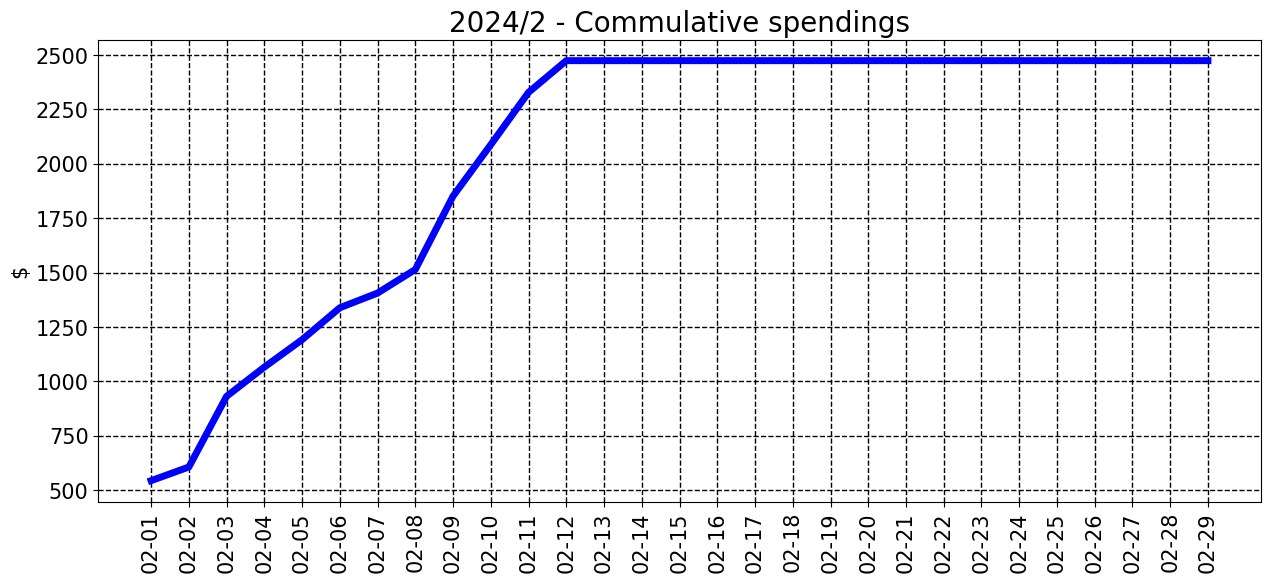
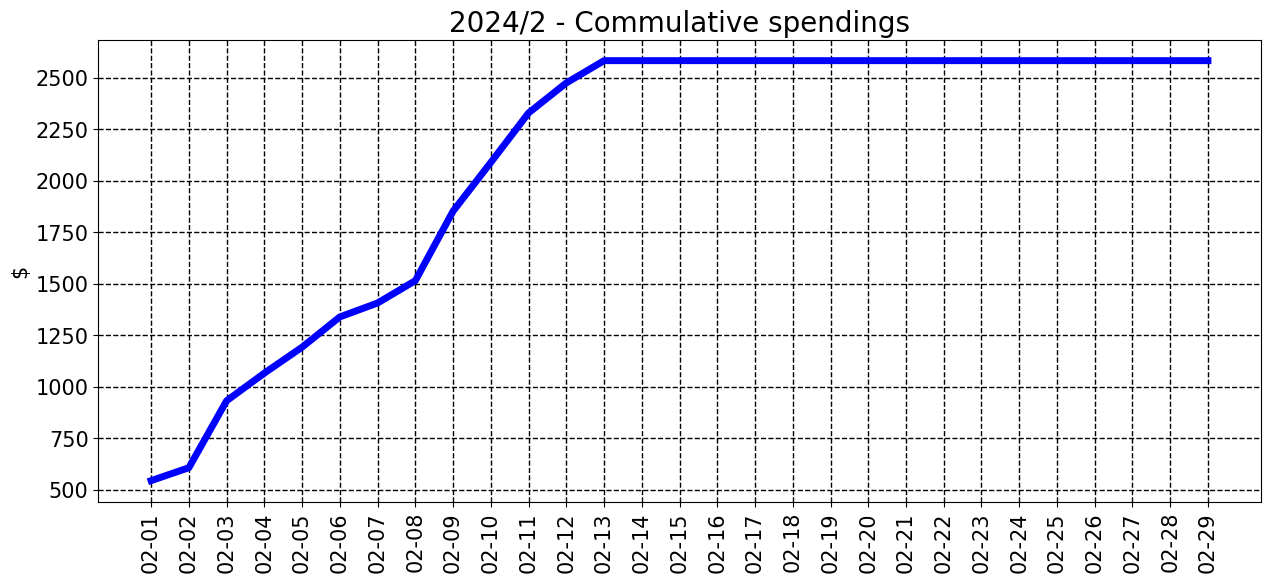
commit from python

Changed region(s): [[0.0307, 0.0619, 1.0, 0.7732], [0.0307, 0.8351, 0.0614, 0.866]]

diff --git a/README.md b/README.md
@@ -7,7 +7,7 @@ __________________________________
 <sub><sup>
 | Spent | Avg daily | End of month projection | Spent since 2024/1 |
 |---|---|---|---|
-| $0.0  |  $0.0  | $0.0  |  $10882.0  |
+| $0.0  |  $0.0  | $0.0  |  $10990.0  |
 </sub></sup>
 __________________________________
 ![graph_12_sum](graph_12_sum.png)
@@ -21,7 +21,7 @@ __________________________________
 <sub><sup>
 | Spent | Avg daily | End of month projection | Spent since 2024/1 |
 |---|---|---|---|
-| $0.0  |  $0.0  | $0.0  |  $10882.0  |
+| $0.0  |  $0.0  | $0.0  |  $10990.0  |
 </sub></sup>
 __________________________________
 ![graph_11_sum](graph_11_sum.png)
@@ -35,7 +35,7 @@ __________________________________
 <sub><sup>
 | Spent | Avg daily | End of month projection | Spent since 2024/1 |
 |---|---|---|---|
-| $0.0  |  $0.0  | $0.0  |  $10882.0  |
+| $0.0  |  $0.0  | $0.0  |  $10990.0  |
 </sub></sup>
 __________________________________
 ![graph_10_sum](graph_10_sum.png)
@@ -49,7 +49,7 @@ __________________________________
 <sub><sup>
 | Spent | Avg daily | End of month projection | Spent since 2024/1 |
 |---|---|---|---|
-| $0.0  |  $0.0  | $0.0  |  $10882.0  |
+| $0.0  |  $0.0  | $0.0  |  $10990.0  |
 </sub></sup>
 __________________________________
 ![graph_9_sum](graph_9_sum.png)
@@ -63,7 +63,7 @@ __________________________________
 <sub><sup>
 | Spent | Avg daily | End of month projection | Spent since 2024/1 |
 |---|---|---|---|
-| $0.0  |  $0.0  | $0.0  |  $10882.0  |
+| $0.0  |  $0.0  | $0.0  |  $10990.0  |
 </sub></sup>
 __________________________________
 ![graph_8_sum](graph_8_sum.png)
@@ -77,7 +77,7 @@ __________________________________
 <sub><sup>
 | Spent | Avg daily | End of month projection | Spent since 2024/1 |
 |---|---|---|---|
-| $0.0  |  $0.0  | $0.0  |  $10882.0  |
+| $0.0  |  $0.0  | $0.0  |  $10990.0  |
 </sub></sup>
 __________________________________
 ![graph_7_sum](graph_7_sum.png)
@@ -91,7 +91,7 @@ __________________________________
 <sub><sup>
 | Spent | Avg daily | End of month projection | Spent since 2024/1 |
 |---|---|---|---|
-| $0.0  |  $0.0  | $0.0  |  $10882.0  |
+| $0.0  |  $0.0  | $0.0  |  $10990.0  |
 </sub></sup>
 __________________________________
 ![graph_6_sum](graph_6_sum.png)
@@ -105,7 +105,7 @@ __________________________________
 <sub><sup>
 | Spent | Avg daily | End of month projection | Spent since 2024/1 |
 |---|---|---|---|
-| $0.0  |  $0.0  | $0.0  |  $10882.0  |
+| $0.0  |  $0.0  | $0.0  |  $10990.0  |
 </sub></sup>
 __________________________________
 ![graph_5_sum](graph_5_sum.png)
@@ -119,7 +119,7 @@ __________________________________
 <sub><sup>
 | Spent | Avg daily | End of month projection | Spent since 2024/1 |
 |---|---|---|---|
-| $0.0  |  $0.0  | $0.0  |  $10882.0  |
+| $0.0  |  $0.0  | $0.0  |  $10990.0  |
 </sub></sup>
 __________________________________
 ![graph_4_sum](graph_4_sum.png)
@@ -133,7 +133,7 @@ __________________________________
 <sub><sup>
 | Spent | Avg daily | End of month projection | Spent since 2024/1 |
 |---|---|---|---|
-| $0.0  |  $0.0  | $0.0  |  $10882.0  |
+| $0.0  |  $0.0  | $0.0  |  $10990.0  |
 </sub></sup>
 __________________________________
 ![graph_3_sum](graph_3_sum.png)
@@ -147,7 +147,7 @@ __________________________________
 <sub><sup>
 | Spent | Avg daily | End of month projection | Spent since 2024/1 |
 |---|---|---|---|
-| $2474.0  |  $206.2  | $5980.0  |  $10882.0  |
+| $2582.0  |  $184.5  | $5350.0  |  $10990.0  |
 </sub></sup>
 __________________________________
 ![graph_2_sum](graph_2_sum.png)
